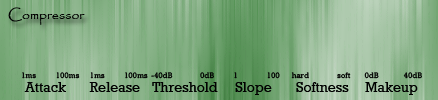
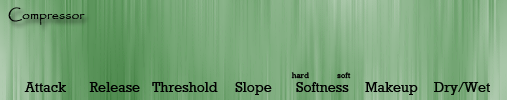
Updated compressor to 1.1.0

diff --git a/ATKCompressor/ATKCompressor.cpp b/ATKCompressor/ATKCompressor.cpp
@@ -74,7 +74,7 @@ ATKCompressor::ATKCompressor(IPlugInstanceInfo instanceInfo)
   pGraphics->AttachControl(new IKnobMultiControlText(this, IRECT(kAttackX, kAttackY, kAttackX + 43, kAttackY + 43 + 21), kAttack, &knob, &text, "ms"));
   pGraphics->AttachControl(new IKnobMultiControlText(this, IRECT(kReleaseX, kReleaseY, kReleaseX + 43, kReleaseY + 43 + 21), kRelease, &knob, &text, "ms"));
   pGraphics->AttachControl(new IKnobMultiControlText(this, IRECT(kThresholdX, kThresholdY, kThresholdX + 43, kThresholdY + 43 + 21), kThreshold, &knob, &text, "dB"));
-  pGraphics->AttachControl(new IKnobMultiControl(this, kSlopeX, kSlopeY, kSlope, &knob));
+  pGraphics->AttachControl(new IKnobMultiControlText(this, IRECT(kSlopeX, kSlopeY, kSlopeX + 43, kSlopeY + 43 + 21), kSlope, &knob, &text, ""));
   pGraphics->AttachControl(new IKnobMultiControl(this, kSoftnessX, kSoftnessY, kSoftness, &knob));
   pGraphics->AttachControl(new IKnobMultiControlText(this, IRECT(kMakeupX, kMakeupY, kMakeupX + 43, kMakeupY + 43 + 21), kMakeup, &knob, &text, "dB"));
   pGraphics->AttachControl(new IKnobMultiControl(this, kDryWetX, kDryWetY, kDryWet, &knob1));
@@ -93,7 +93,7 @@ ATKCompressor::ATKCompressor(IPlugInstanceInfo instanceInfo)
   volumeFilter.set_input_port(0, &applyGainFilter, 0);
   drywetFilter.set_input_port(0, &volumeFilter, 0);
   drywetFilter.set_input_port(1, &inFilter, 0);
-  outFilter.set_input_port(0, &volumeFilter, 0);
+  outFilter.set_input_port(0, &drywetFilter, 0);
   
   Reset();
 }
@@ -163,7 +163,7 @@ void ATKCompressor::OnParamChange(int paramIdx)
       volumeFilter.set_volume_db(GetParam(kMakeup)->Value());
       break;
     case kDryWet:
-      drywetFilter.set_dry(1 - GetParam(kDryWet)->Value());
+      drywetFilter.set_dry(GetParam(kDryWet)->Value());
       break;
 
     default:
